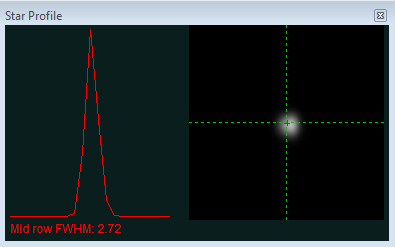
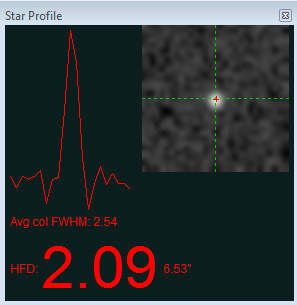
Help doc updates

diff --git a/help/Tools.htm b/help/Tools.htm
@@ -4,7 +4,7 @@
   <h2>Tools and Utilities</h2><a href="#Manual_Guide">Manual Guide</a><br>
   <a href="#Auto-Select_Star">Auto-Select Star</a><br>
   <a href="#Calibration_Details">Calibration Details</a><br>
-  <a href="#PHD2_Server">PHD2 Server</a><br><a href="#Logging_and_Debug_Output">Logging and Debug Output</a><br>
+  <a href="#PHD2_Server">PHD2 Server</a><br><a href="#Dithering_Ops">Dithering Operations</a><br><a href="#Logging_and_Debug_Output">Logging and Debug Output</a><br>
   <a href="#Drift_Align">Drift Alignment</a><br>
   <a href="#Lock_Positions">Lock Positions</a><br>
   <a href="#Comet_Tracking">Comet Tracking</a><br><a href="#Guiding_Assistant">Guiding Assistant</a><br>
@@ -41,9 +41,8 @@ attaching a laser pointer to your scope and aiming it at something
 fairly far away (to amplify your motions). &nbsp;A better&nbsp;approach
 for nighttime testing is to run the "star-cross" test described <a href="Trouble_shooting.htm#Star_cross_test">here</a>.&nbsp; &nbsp;<br>
 <br>
-<a name="Dithering"></a>Dithering
-is used primarily with image capture or automation applications,
-usually through the PHD2 server interface. &nbsp;However, you can do
+<a name="Dithering_Manual"></a>Dithering
+is used primarily with image capture or automation applications through the PHD2 server interface. &nbsp;However, you can do
 manual dithering or experiment with dither settings using the controls
 at the bottom of the dialog. &nbsp;The 'dither' amount field at the
 left controls the&nbsp;amount the mount will be moved , in units of
@@ -180,7 +179,70 @@ for an application to control most aspects of <span style="font-style: italic;">
 server API is available on
 the <a href="https://code.google.com/p/open-phd-guiding/w/list">PHD2
 Wiki</a>.<br>
-<br><h3><a name="Logging_and_Debug_Output"></a>Logging and Debug Output</h3>
+<br><h3><a name="Dithering_Ops"></a>Dithering</h3><big></big><p>The primary purpose of dithering&nbsp;is
+to make post-processing easier by removing some kinds of fixed-pattern
+noise in the images, especially hot pixels.&nbsp; This is almost purely
+a function of the camera you're using and to a lesser extent, the
+sophistication of the post-processing software.&nbsp; For imagers
+with&nbsp;temperature-regulated, low-noise cameras, dithering is mostly
+a convenient way to eliminate&nbsp;hot pixels that aren't getting
+removed by the dark frames.&nbsp; Hot pixel positions change as sensors
+age, so dark libraries don't usually correct for all of them. Those hot
+pixels can also be also removed in post-processing, but that becomes
+tedious if there are lots of them.&nbsp; It's also possible that
+dithering can help with some other kinds of sensor behavior such as
+column defects, and it's particularly helpful if there is no
+temperature regulation on the sensor and therefore no good way to use a
+dark library.&nbsp; DSLR imagers often use aggressive dithering for
+those reasons.&nbsp;In the PHD2 implementation, &nbsp; automated
+dithering is accomplished through the server interface, so make sure
+you have 'Enable Server' checked under the 'Tools' menu. &nbsp;You
+first specify a maximum dither size you want to use during the
+guiding session - this will be set in your imaging application.. Then,
+when that application issues a dither command, PHD2
+uses a random number generator to decide how large the dither will
+actually be for that command.&nbsp; The actual dither mount will be
+&gt; 0
+and &lt;= the maximum amount allowed. You want to use pseudo-random
+dither amounts like this to be sure that dithering doesn't follow a
+consistent pattern or shift the frame back to a location where it has
+previously been.&nbsp; But for some of the applications that do PHD2
+dithering, you
+can't specify the maximum amount directly - you are perhaps limited to
+choices like small/medium/large and the max dither amounts will have
+preset values.&nbsp; For that reason, PHD2 has a dither scaling
+parameter in the 'Global' tab of the Brain dialog.&nbsp; It is
+basically a multiplier term that lets you adjust the range of dither
+amounts that are possible.&nbsp; So a scale factor of 1 doesn't change
+the
+preset value at all, a value of 10 multiplies it by 10X, etc.&nbsp; If
+you're using an app that lets you specify the maximum amount directly
+(e.g. PHD_Dither), you should leave the dither scale set to 1.0.&nbsp;
+Otherwise, you can adjust the scale factor if you aren't
+happy with the overall range of dithering you're getting with one of
+the small/medium/large type imaging apps.</p><p>There are typically
+two costs associated with dithering: 1) the extra time and uncertainty
+required for "settling" and 2) the need to crop the final stacked frame
+in order to remove the low-signal margins. &nbsp;Settling is the term
+used for a period of stabilization after the mount has been moved by a
+dither command. &nbsp; The imaging app that starts the dither will also
+decide when the guiding has stabilized enough to continue
+imaging.&nbsp; The app can let PHD2 determine this by specifying the
+settling parameters or the app can do the calculations itself.&nbsp;
+You'll need to look at your imaging/dithering app to see what control
+you have over this process.&nbsp; If the app uses the latest PHD2
+server interfaces, it can specify a settling requirement that might
+look like "guiding errors must be less than 1.5 pixels for a period of
+at least 10 seconds."&nbsp; This is a process that can consume some
+time, depending on how tight the requirements are for settling.&nbsp;
+It is likely to take more time if you are dithering in declination and
+the dither forces a change in direction.&nbsp; Most mounts have some
+declination backlash, so it can take a number of guide commands to get
+the mount moving in the right direction, and then more time for the
+process to converge on the new target location for the guide
+star.&nbsp; That's why PHD2 also offers the option to dither only in
+right ascension. &nbsp;Again, this is an option on the 'Global' tab,
+right next to the dither scaling parameter.</p><h3><a name="Logging_and_Debug_Output"></a>Logging and Debug Output</h3>
 <span style="font-style: italic;">PHD2</span> automatically creates two types of log files: a debug log and a
 guiding log. &nbsp;Both are very useful for different reasons.
 &nbsp;The guiding log is similar to the one produced by PHD, but

diff --git a/help/Visualization.htm b/help/Visualization.htm
@@ -104,18 +104,42 @@ graph window open, you can click on&nbsp; the "Stats" menu item.
 &nbsp;That will display the salient statistics with controls for
 clearing the data or changing the number of guide exposures used to
 compute the statistics.
-<h3><a name="Star_Profile_and_Target_Displays"></a>Star Profile and Target Displays</h3><img style="width: 395px; height: 247px;" alt="" src="Star_profile.png"><br><br>The
+<h3><a name="Star_Profile_and_Target_Displays"></a>Star Profile and Target Displays</h3><img style="width: 297px; height: 305px;" alt="" src="Star_profile.png"><br><br>The
 star profile display shows the cross-section of the guide star along
-with a measurement of its full-width-half-maximum (<a name="FWHM"></a>FWHM).
-&nbsp;If you
-see substantial fluctuations in this parameter, it may be an indication
+with measurements for its full-width-half-maximum (<a name="FWHM"></a>FWHM)
+and half-flux-diameter (HFD).
+&nbsp;HFD is generaly a more stable measure of the star size since
+it doesn't require curve fitting or any assumption about the overall
+shape of the star image. &nbsp;That's why automated focusing
+applications like FocusMax use it. &nbsp;If you
+see substantial fluctuations in this parameter or wildly varying star
+profiles, it may be an indication
 that the star is too faint or the exposure time is too short.
-&nbsp;This tool can also help with focusing the guide camera, a
+&nbsp;<a name="Focusing"></a>This tool can also help with focusing the
+guide camera, a
 procedure that can be a bit tedious if you're using an off-axis-guider
-at a fairly long focal length. &nbsp;An out-of-focus star will not have
-the sharply pointed profile you want for guiding. &nbsp;If the profile
-is flat at the top, the star is over-exposed, &nbsp;so you'll need to
-find a fainter star or reduce the exposure time to refine the focus.<br><br><img style="width: 622px; height: 489px;" alt="" src="Target_display.png"><br><br>The
+at a fairly long focal length. &nbsp;For that purpose, the HFD number
+is shown in a large font so you can see it from a distance while
+focusing your guide scope/camera. &nbsp;Just un-dock the Star Profile
+window and expand it until you can see the HFD number easily. &nbsp;If
+you are starting well out-of-focus, you'll probably see only a few
+fuzzy stars in the frame, so just choose the smallest one that is
+clearly visible. &nbsp;Use exposure times of at least 2 seconds if
+possible so you don't chase the seeing. &nbsp;At the same time, don't
+let the star become saturated, showing a distinctive flat top.
+&nbsp;Now adjust the focus so the HFD gets consistently
+smaller - but stop as soon as HFD reverses direction or seems to
+plateau. &nbsp;At that point, the star may be saturated, so move to a
+dimmer star in the field. &nbsp;Since you have already improved the
+focus, you can hopefully see a dimmer star. &nbsp;Continue in this way
+until you've reached a focus point that shows a minimum level of HFD
+for the faintest star you can use. &nbsp;At each point in the focusing
+process, you'll probably want to watch the HFD values for a few frames
+so&nbsp;you can mentally average out the effects of seeing. &nbsp;Bad
+focus is a common issue for beginners, leading to problems in
+calibration or generally poor guiding results. &nbsp;Use the Star
+Profile tool to be sure the star doesn't have a flat top (saturation)
+and shows a tapered shape like the example shown above.<br><br><br><img style="width: 622px; height: 489px;" alt="" src="Target_display.png"><br><br>The
 target display is another useful way to visualize overall guider
 performance. &nbsp;The red 'X' shows the star displacement for the most
 recent guide exposure, while the blue dots show the recent history.

diff --git a/help/Advanced_settings.htm b/help/Advanced_settings.htm
@@ -36,10 +36,9 @@ initial values as if <span style="font-style: italic;">PHD2</span> had been fres
 <li>'<a name="Image_format"></a>Image logging format' - specifies the file format&nbsp;if
 star-image logging is enabled. If you are doing this for the purpose of documenting a problem, use Raw FITS</li>
 <li>'<a name="Dither_RA_only"></a>Dither
-RA only' - for companion apps that use the <span style="font-style: italic;">PHD2</span> server interface,
+RA only' - for imaging apps that use the <span style="font-style: italic;">PHD2</span> server interface,
 specifies that dithering should be done only on the RA axis</li>
-<li>'<a name="Dither_scale"></a>Dither scale' - controls the magnitude of the dithering
-operation&nbsp;</li><li>'<a name="Log_File_Location"></a>Log File Location' - specifies a file directory where PHD2 guide and debug log files will be stored.</li></ul><br><h3><a name="Camera_Tab"></a>Camera Tab</h3>
+<li>'<a name="Dither_scale"></a>Dither scale' - an optional multiplier used to adjust the maximum-dither amount specified by the image application. See <a href="Tools.htm#Dithering_Ops">Dithering Operations</a>&nbsp;</li><li>'<a name="Log_File_Location"></a>Log File Location' - specifies a file directory where PHD2 guide and debug log files will be stored.</li></ul><br><h3><a name="Camera_Tab"></a>Camera Tab</h3>
 <span style="font-size: 10pt; font-family: Arial;"></span><img style="width: 605px; height: 480px;" alt="" src="Advanced_camera.png"><br>
 <br>
 The controls on the 'Camera' tab are used as follows: <br>
@@ -81,13 +80,19 @@ the SNR to
 go below 3.0. &nbsp;As mentioned in the 'Basic Use' section, SNR is
 similar but not identical to the signal-to-noise ratio used in
 photometry.</li></ul><li>'<a name="Pixel_size"></a>Pixel
-size' - The guide camera pixel size in microns. This is the second of two parameters needed by <span style="font-style: italic;">PHD2</span> to compute the
+size' - The guide camera pixel size in microns. This is the second of two parameters needed by <span style="font-style: italic;">PHD2</span>
+to compute the
 guider image scale and thus report guider statistics in units of
 arc-seconds. &nbsp;The other
-parameter required for this is the guide scope focal length, located on the
+parameter required for this is the guide scope focal length, located on
+the
 'Guiding' tab. Refer to your camera documentation to determine
 the
-correct value for pixel size.</li><li>'<a name="Camera_gain"></a>Camera
+correct value for pixel size. &nbsp;If your camera has non-square
+pixels, just choose one of the dimensions or input the average of the
+two. &nbsp;The pixel size has no effect on guiding accuracy, so a small
+amount of imprecision in the user interface won't &nbsp;cause any
+problems.</li><li>'<a name="Camera_gain"></a>Camera
 gain' - Sets the gain level for the many cameras
 that support this feature. &nbsp;Reducing this parameter can help to
 reduce the noise level or may allow use of a bright star without

diff --git a/help/Basic_use.htm b/help/Basic_use.htm
@@ -70,7 +70,7 @@ a "side door" mechanism that won't violate any of the above rules.
 &nbsp;With this arrangement, the image capture application is acting as
 a traffic cop to coordinate access to the two camera sensors. &nbsp;At
 the time of this writing (October 2015), the only imaging
-application that does this is Sequence Guider Pro (SGP). &nbsp;If you
+application that does this is Sequence Generator Pro (SGP). &nbsp;If you
 use SGP as your main imaging application, you can also use their "SGP
 API Guider" module, which allows PHD2 to access the guide chip on the
 SBIG camera.
@@ -261,8 +261,12 @@ difficulty distinguishing "seeing jitter" from actual guide star
 displacements that need to be corrected.</li>
 </ol>
 As a starting point,&nbsp;try using exposure durations in the range
-of one to five seconds. &nbsp;Rather than choosing the star yourself with a mouse-click, you can let PHD2 <a href="Tools.htm#Auto-Select_Star">Auto-select</a>&nbsp;the guide star&nbsp;by using the Alt-S keyboard shortcut after stars are visible in the main display. &nbsp;<br>
-<br>
+of one to five seconds. &nbsp;Rather than choosing the star yourself with a mouse-click, you can let PHD2 <a href="Tools.htm#Auto-Select_Star">Auto-select</a>&nbsp;the
+guide star&nbsp;by using the Alt-S keyboard shortcut after stars are
+visible in the main display. &nbsp;If you are just starting with this
+equipment set-up, you'll probably need to focus the guide camera -
+doing so is important for good guiding. &nbsp;You can use&nbsp;<span style="text-decoration: underline;"></span><br>
+the <a href="Tools.htm#Star_Profile">Star Profile tool</a> to help with that process. <br><br>
 There is also an Auto exposure time selection available. When exposure
 is set to Auto, PHD2 will attempt to adjust the exposure to keep the
 selected guide star at a constant signal-to-noise ratio (SNR) value.
